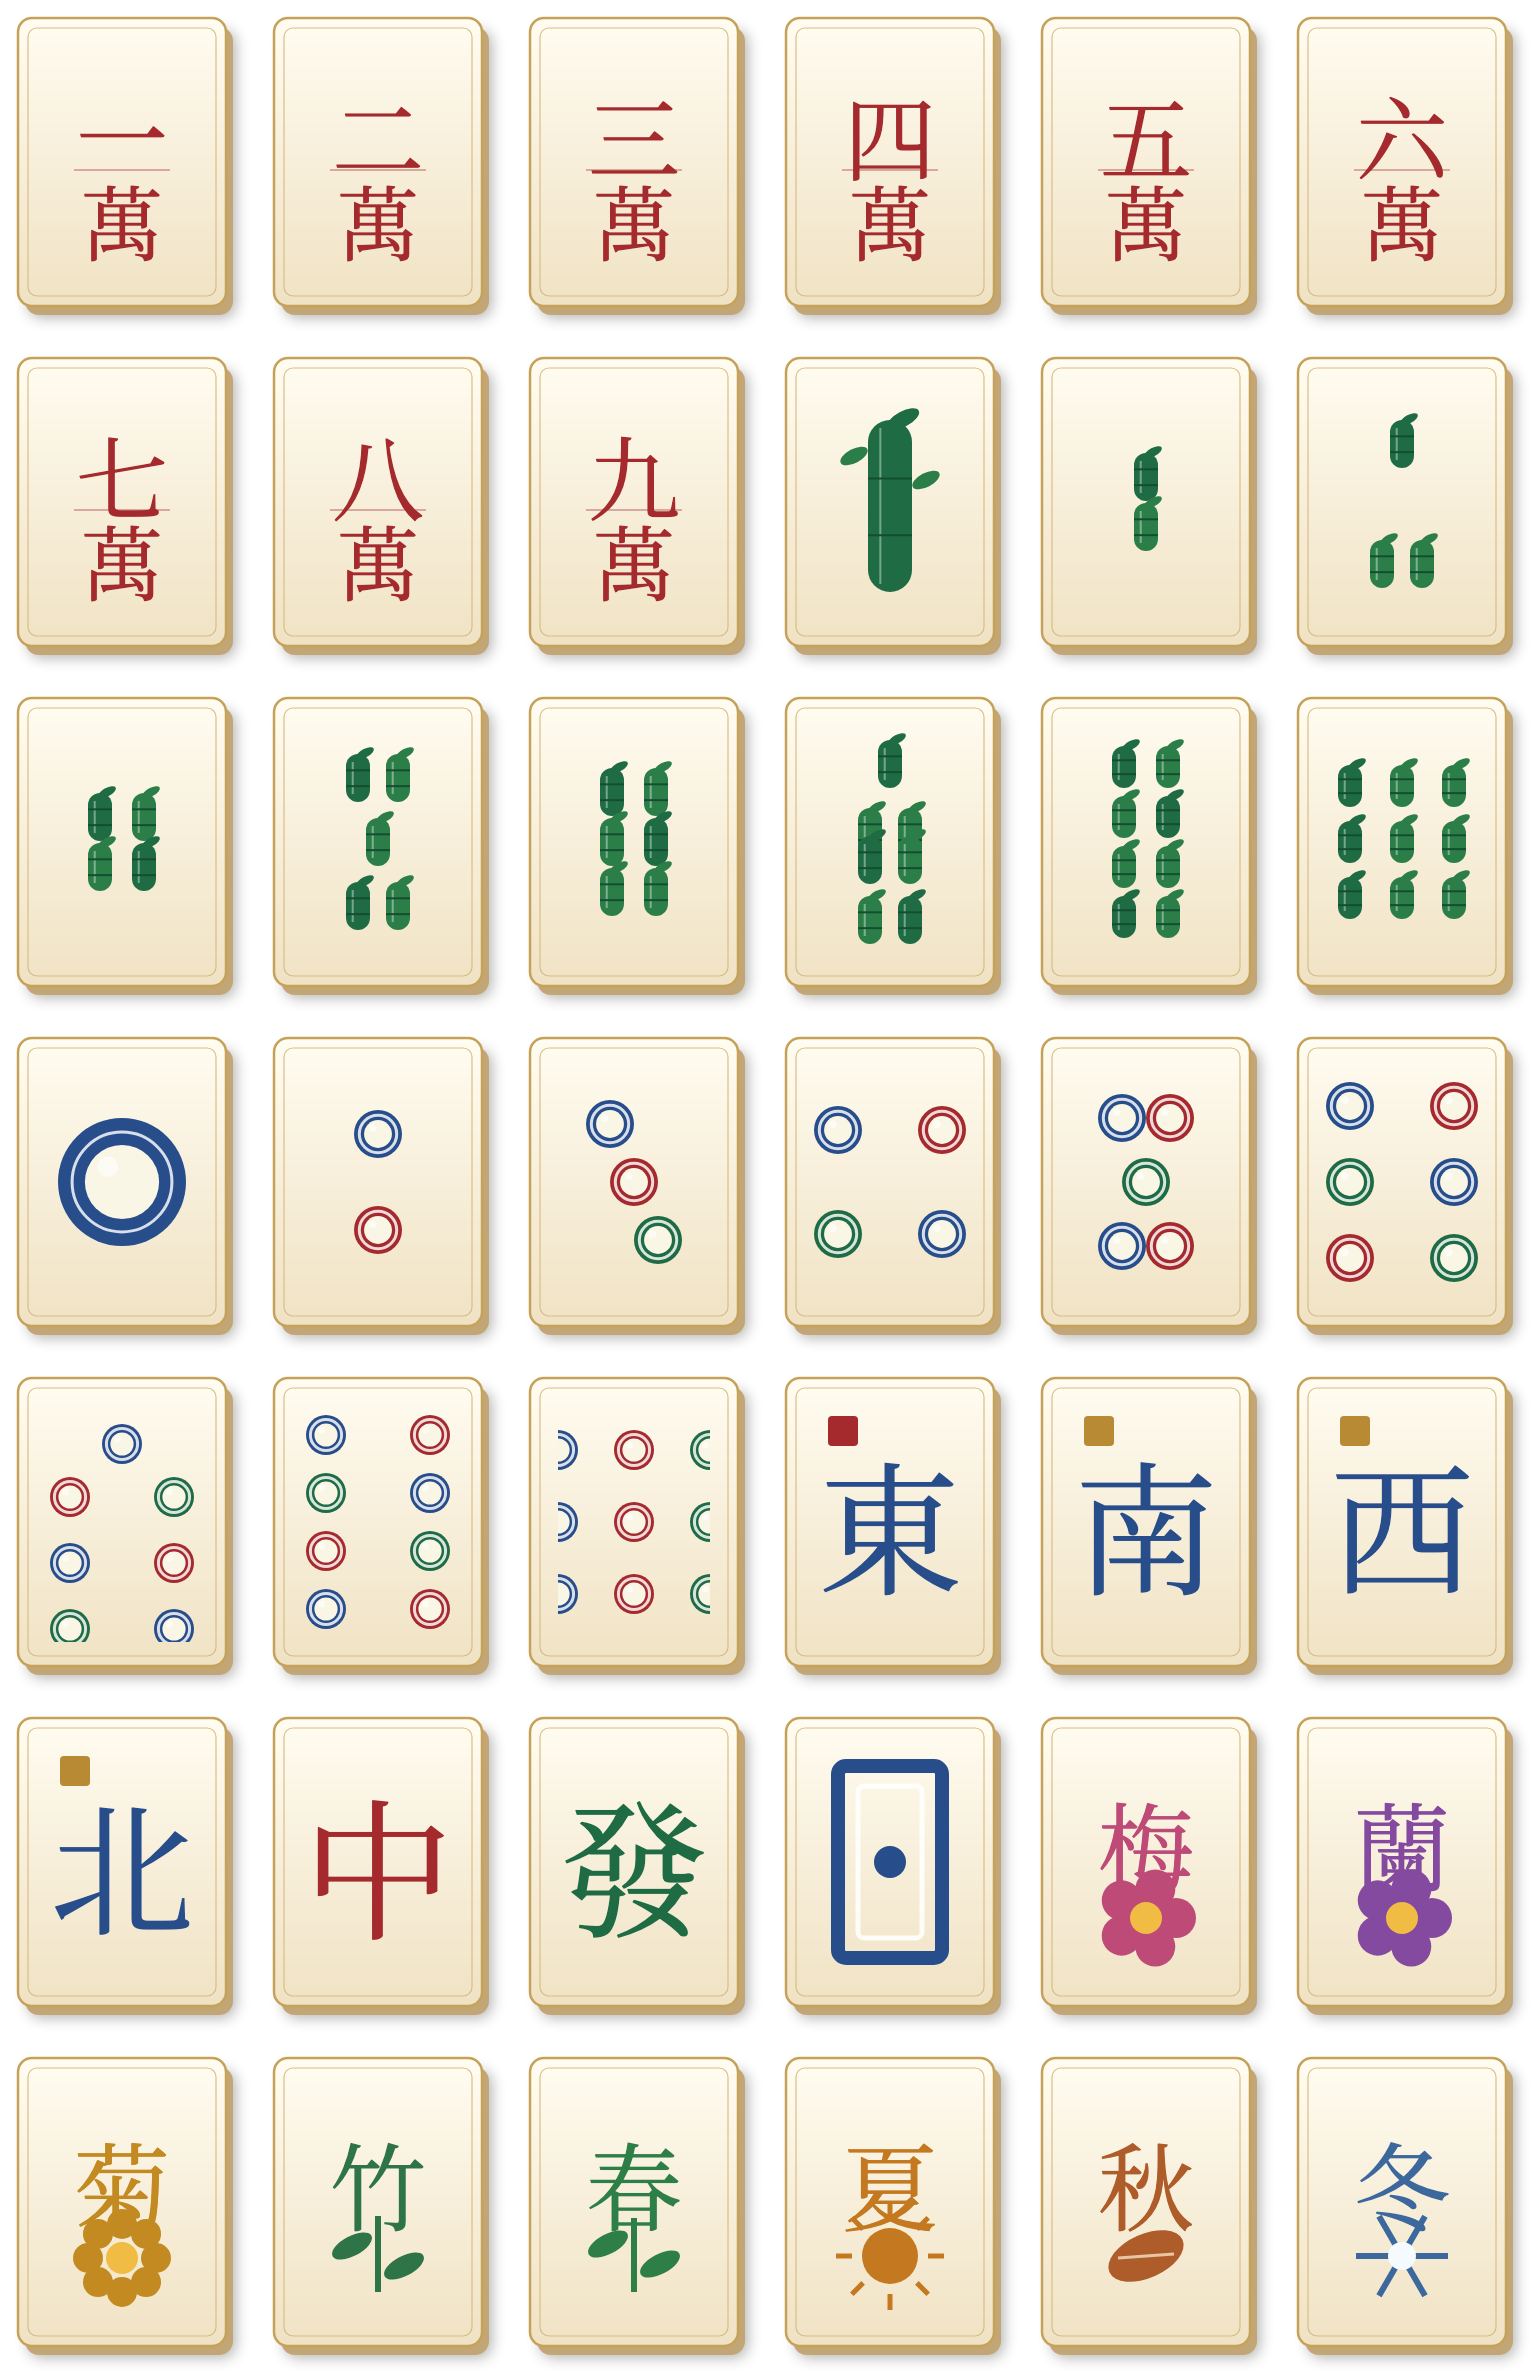
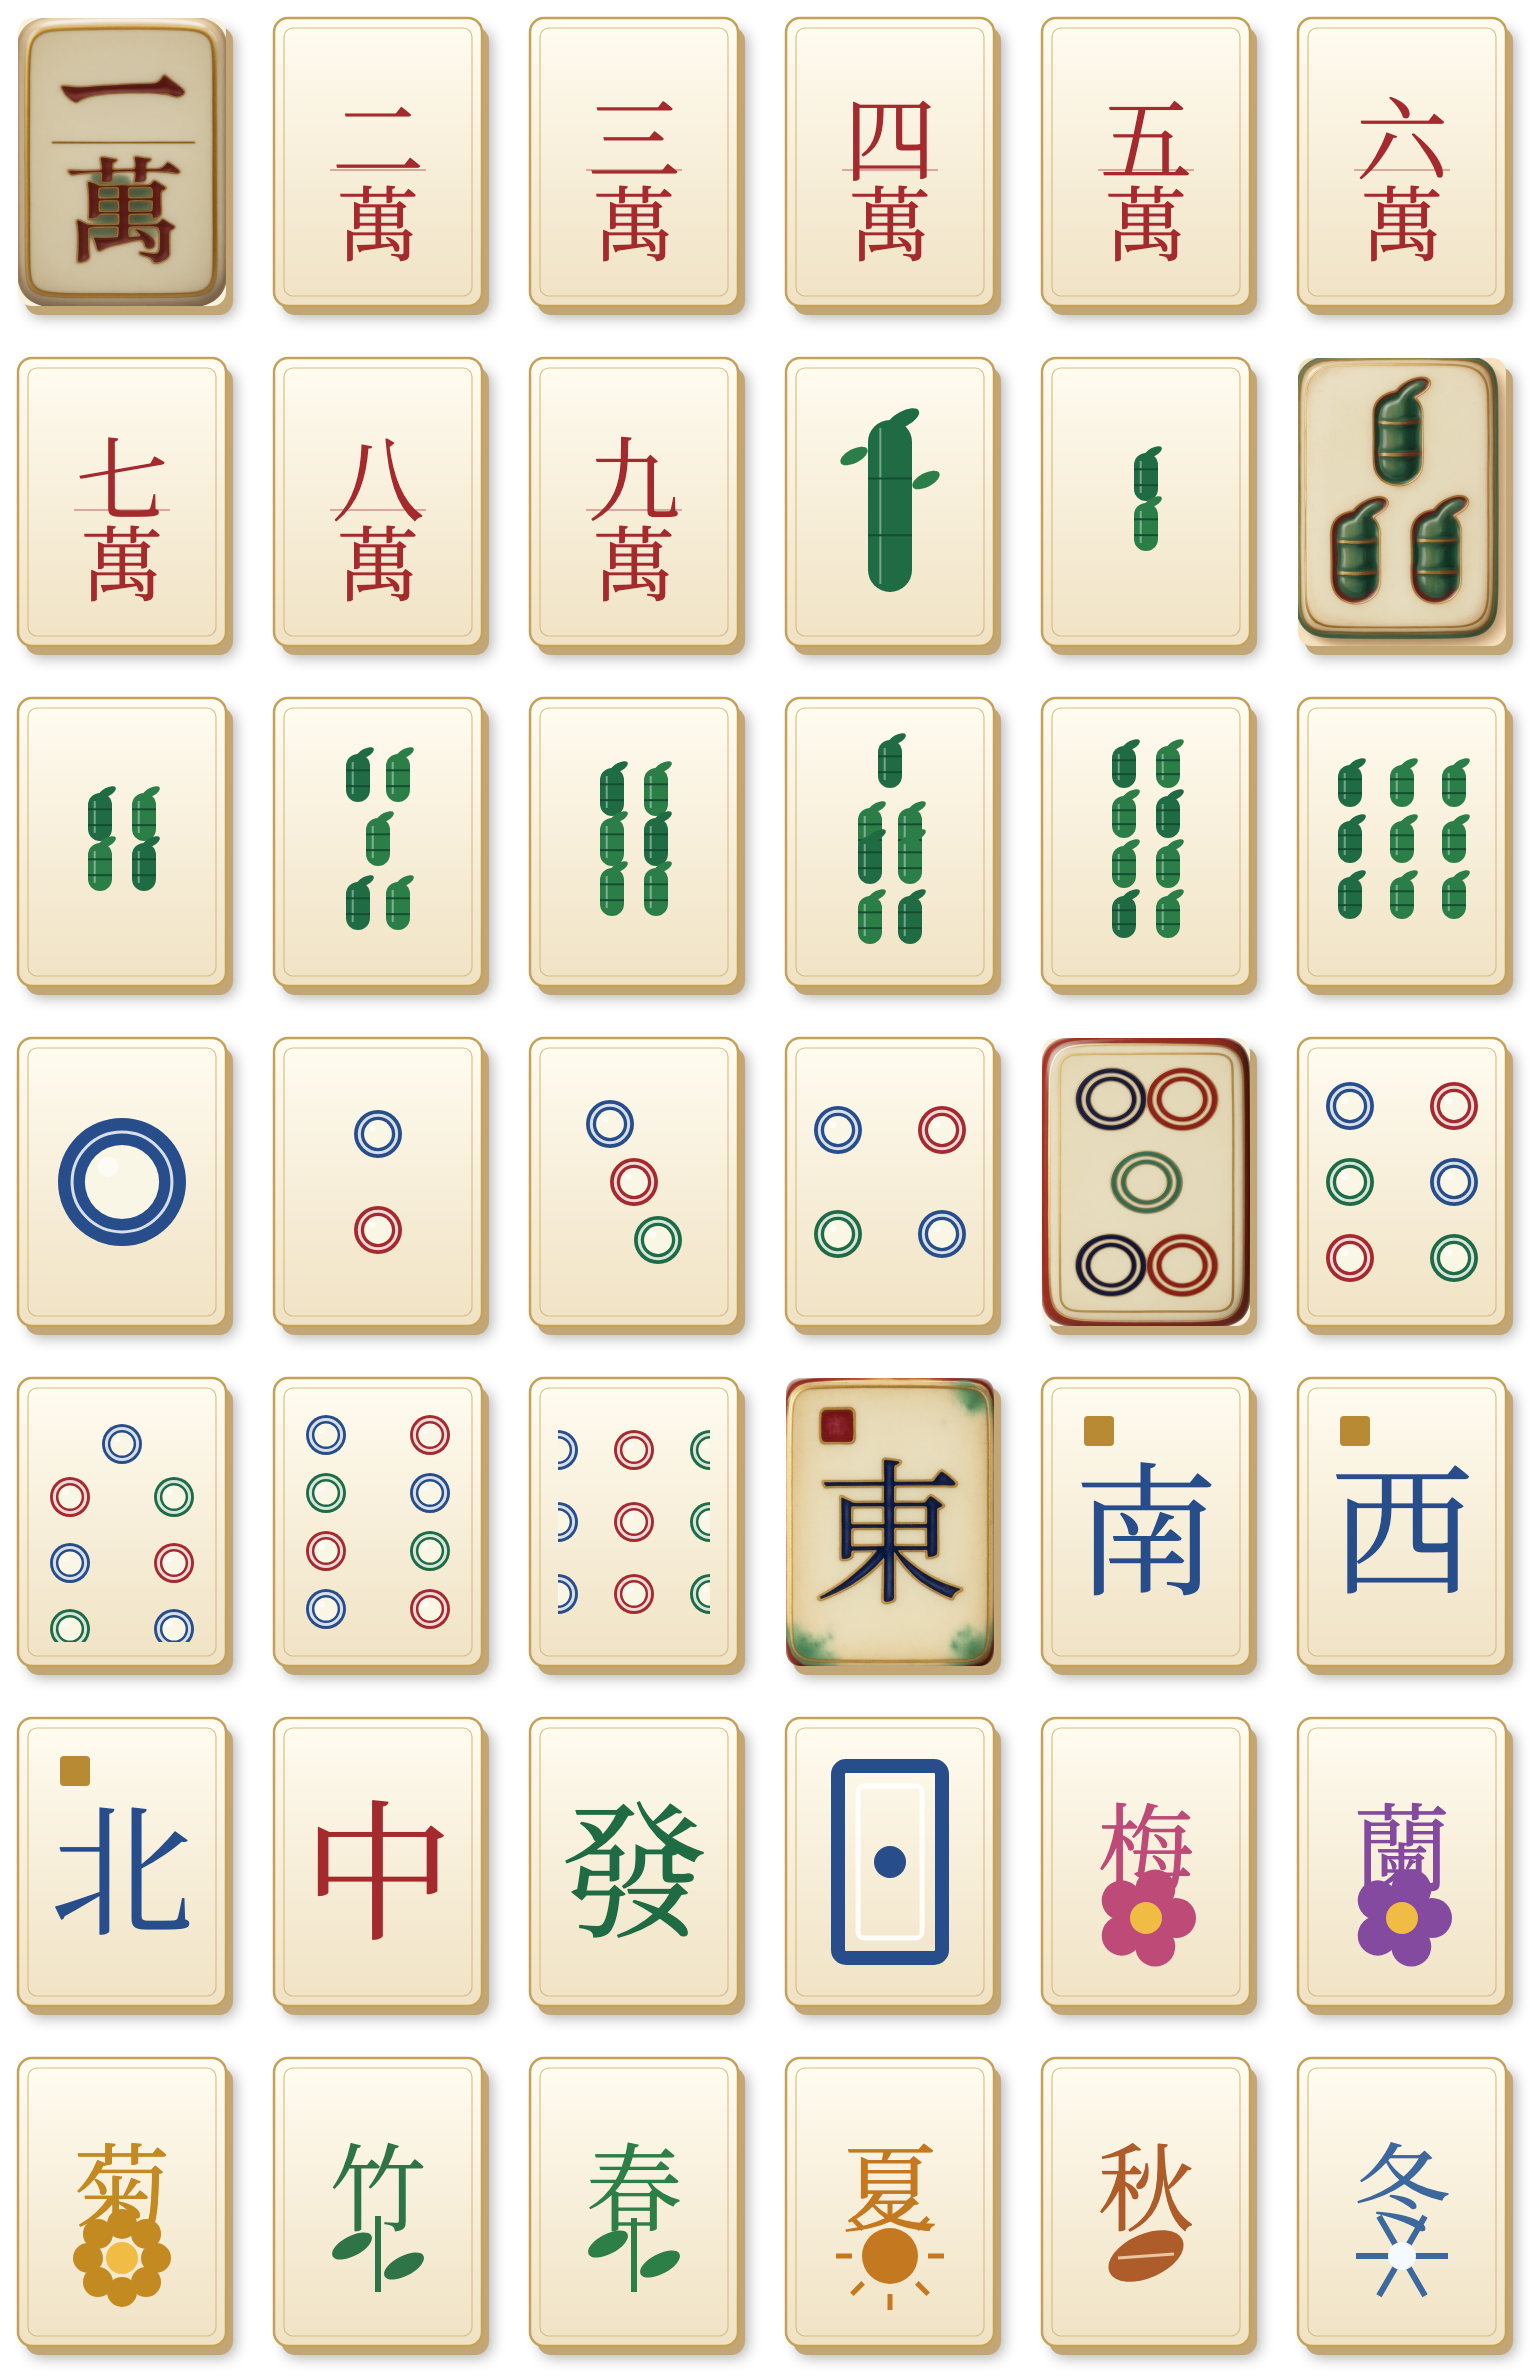
feat(tiles): select the first four generated porcelain faces
Generate, review and select C1, B3, D5 and the east wind, then rebuild the
atlas so the game uses them. The remaining 38 faces stay on the vector
fallback until their generated art is reviewed.

- assets/art/faces now carries the selected 416x576 faces plus a manifest with
  each generation id, seed, model and exact prompt.
- The manifest records the prompt so provenance survives without the gitignored
  history database.
- Plan M7 marks the full 42-face set as in progress (4/42).

diff --git a/tools/tile-pipeline/roktiles/applier.py b/tools/tile-pipeline/roktiles/applier.py
@@ -102,6 +102,7 @@ def apply_selections(face_labels: list[str] | None = None, build: bool = True) -
             "model": generation.params.get("model", ""),
             "style": generation.params.get("style", ""),
             "seed": generation.seed,
+            "prompt": generation.prompt,
             "width": width,
             "height": height,
             "createdAt": generation.created_at,

diff --git a/docs/plan.md b/docs/plan.md
@@ -811,7 +811,7 @@ adds the tests that would have caught the bugs introduced by that milestone.
 - [x] Qwen-Image-Edit 2511 GGUF default workflow and style presets.
 - [x] Optional LoRA loading (4-step Lightning fast-batch recipe documented).
 - [ ] Verify the 4-step Lightning LoRA path with a downloaded model.
-- [ ] Generate, review and select the full 42-face porcelain set.
+- [~] Generate, review and select the full 42-face porcelain set (4/42).
 - [ ] Compare `lacquer`, `ink` and `jade` styles and sign off the final look.
 - [ ] Exercise the OpenRouter adapter with a real key and model.
 
